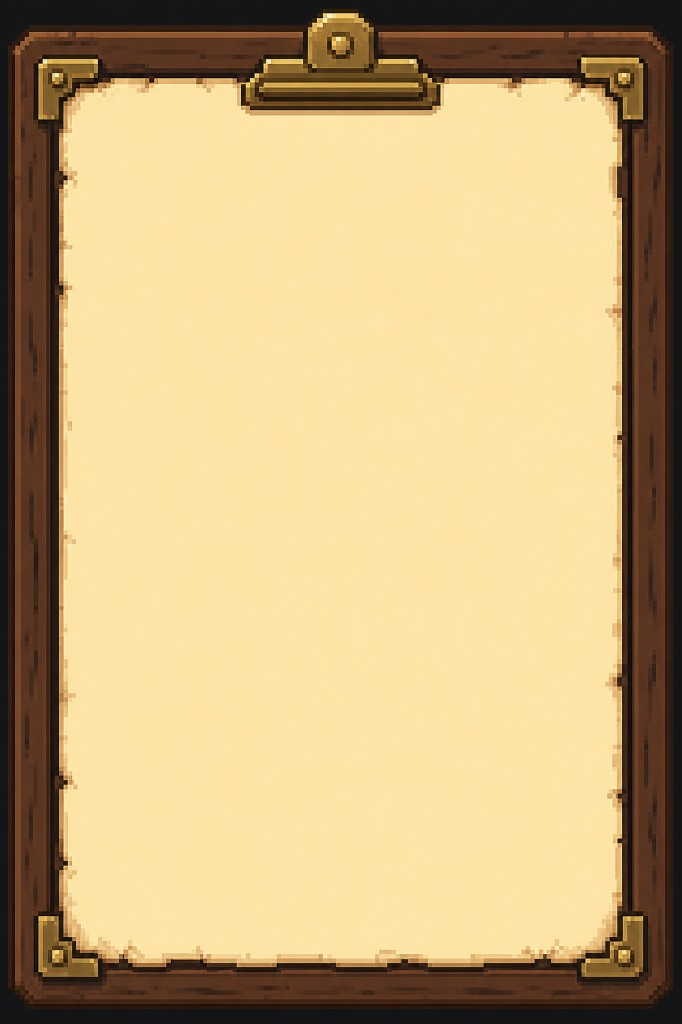
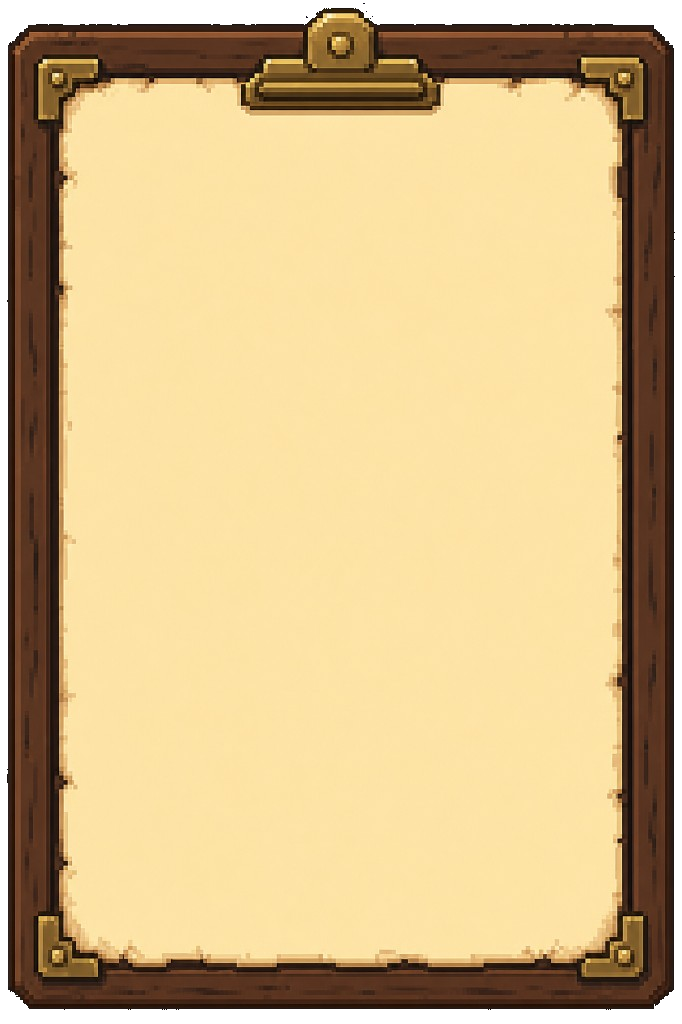
Slim Health screen and make clipboard PNG transparent.
Knock out the charcoal backdrop so the board sits cleanly on the screen, and compact the header so Body Board fits without scrolling.

Changed region(s): [[0.0, 0.0, 1.0, 1.0]]

diff --git a/artifacts/pack-it-up/src/Screens.jsx b/artifacts/pack-it-up/src/Screens.jsx
@@ -192,7 +192,7 @@ export function RewardToast({ text }) {
   );
 }
 
-function Screen({ title, icon, onBack, children, bg = "#1A1008", subtitle, progress, progressLabel, checklist }) {
+function Screen({ title, icon, onBack, children, bg = "#1A1008", subtitle, progress, progressLabel, checklist, compact = false }) {
   return (
     <div style={{
       position: "fixed", inset: 0, zIndex: 250, background: bg, display: "flex", flexDirection: "column",
@@ -201,27 +201,46 @@ function Screen({ title, icon, onBack, children, bg = "#1A1008", subtitle, progr
       {screenCss}
       <div style={{
         flex: "0 0 auto",
-        padding: "calc(env(safe-area-inset-top, 0px) + 10px) 10px 8px",
-        display: "flex", gap: 8, alignItems: "flex-start",
+        padding: compact
+          ? "calc(env(safe-area-inset-top, 0px) + 4px) 8px 4px"
+          : "calc(env(safe-area-inset-top, 0px) + 10px) 10px 8px",
+        display: "flex", gap: compact ? 6 : 8, alignItems: "center",
       }}>
-        <button onClick={onBack} style={{ padding: "9px 12px", color: "#FFD97A", fontSize: 12, cursor: "pointer", flex: "0 0 auto", ...FR, ...LB }}>
+        <button onClick={onBack} style={{
+          padding: compact ? "6px 10px" : "9px 12px",
+          color: "#FFD97A", fontSize: compact ? 11 : 12, cursor: "pointer", flex: "0 0 auto", ...FR, ...LB,
+        }}>
           ← Back
         </button>
         <div style={{ flex: 1, minWidth: 0 }}>
-          <div style={{ padding: "8px 12px", textAlign: "center", color: "#FFD97A", fontSize: 14, ...GOLD_PLATE, ...LB }}>
+          <div style={{
+            padding: compact ? "4px 8px" : "8px 12px",
+            textAlign: "center", color: "#FFD97A",
+            fontSize: compact ? 12 : 14, ...GOLD_PLATE, ...LB,
+          }}>
             {icon} {title}
+            {compact && progressLabel ? (
+              <span style={{ color: "#8A7350", fontSize: 10, marginLeft: 8 }}>{progressLabel}</span>
+            ) : null}
           </div>
           {(subtitle || progress != null) && (
-            <div style={{ marginTop: 6, padding: "6px 8px", ...FR }}>
+            <div style={{
+              marginTop: compact ? 3 : 6,
+              padding: compact ? "3px 6px" : "6px 8px",
+              ...FR,
+            }}>
               {subtitle && (
-                <div style={{ color: "#C9B896", fontSize: 10, marginBottom: progress != null ? 5 : 0, ...LB }}>
+                <div style={{
+                  color: "#C9B896", fontSize: compact ? 9 : 10,
+                  marginBottom: progress != null ? (compact ? 3 : 5) : 0, ...LB,
+                }}>
                   {subtitle}
                 </div>
               )}
               {progress != null && (
                 <>
-                  <ProgressBar value={progress} />
-                  {progressLabel && (
+                  <ProgressBar value={progress} height={compact ? 8 : 12} />
+                  {!compact && progressLabel && (
                     <div style={{ color: "#8A7350", fontSize: 9, marginTop: 3, textAlign: "right", ...LB }}>
                       {progressLabel}
                     </div>
@@ -231,11 +250,19 @@ function Screen({ title, icon, onBack, children, bg = "#1A1008", subtitle, progr
             </div>
           )}
         </div>
-        {checklist && (
+        {checklist && !compact && (
           <div style={{ flex: "0 0 auto" }}>{checklist}</div>
         )}
       </div>
-      <div style={{ flex: 1, overflowY: "auto", padding: "8px 12px calc(env(safe-area-inset-bottom, 0px) + 16px)" }}>
+      <div style={{
+        flex: 1, minHeight: 0,
+        overflowY: compact ? "hidden" : "auto",
+        padding: compact
+          ? "4px 8px calc(env(safe-area-inset-bottom, 0px) + 8px)"
+          : "8px 12px calc(env(safe-area-inset-bottom, 0px) + 16px)",
+        display: compact ? "flex" : undefined,
+        flexDirection: compact ? "column" : undefined,
+      }}>
         {children}
       </div>
     </div>
@@ -1093,23 +1120,23 @@ function HealthScreen({ go, tasks, setTasks, session, onSessionBump, rewardToast
 
   return (
     <Screen
+      compact
       title="Body Board"
       icon="🩺"
       onBack={leave}
       subtitle="Stabilize highlighted zones"
       progress={stabilized / HEALTH_ZONES.length}
       progressLabel={`${stabilized}/${HEALTH_ZONES.length}`}
-      checklist={<ChecklistCard items={prog.items} title="Care" />}
     >
       <RewardToast text={rewardToast} />
 
-      <div style={{ display: "flex", gap: 8, marginBottom: 8, overflowX: "auto" }}>
+      <div style={{ display: "flex", gap: 6, marginBottom: 4, overflowX: "auto", flex: "0 0 auto" }}>
         {booked.length === 0 && (
           <div style={{
-            flex: "0 0 auto", minWidth: 140, padding: "8px", background: "#2A1709",
-            border: "2px dashed #4A2E17", color: "#8A7350", fontSize: 10, ...LB,
+            flex: "0 0 auto", minWidth: 120, padding: "4px 8px", background: "#2A1709",
+            border: "2px dashed #4A2E17", color: "#8A7350", fontSize: 9, ...LB,
           }}>
-            No bookings yet. Call {RECEPTIONIST_NAME} from the Desk landline.
+            No bookings — call {RECEPTIONIST_NAME} from Desk
           </div>
         )}
         {booked.map((a) => {
@@ -1122,17 +1149,17 @@ function HealthScreen({ go, tasks, setTasks, session, onSessionBump, rewardToast
               onClick={() => due && finishAppt(a)}
               disabled={!due}
               style={{
-                flex: "0 0 auto", width: 110, padding: "8px", textAlign: "left",
+                flex: "0 0 auto", width: 100, padding: "4px 6px", textAlign: "left",
                 cursor: due ? "pointer" : "default",
                 background: due ? "#EFE7D2" : "#2A1709",
                 border: "2px solid #120A04", ...LB,
               }}
             >
               <div style={{ fontSize: 8, color: "#8A7350" }}>{due ? "ATTEND" : "BOOKED"}</div>
-              <div style={{ fontSize: 10, color: due ? "#3A2018" : "#C9B896", marginTop: 2 }}>
+              <div style={{ fontSize: 9, color: due ? "#3A2018" : "#C9B896", marginTop: 1 }}>
                 {visitLabel(task || a.zone)}
               </div>
-              <div style={{ fontSize: 8, color: "#5A381F", marginTop: 2 }}>
+              <div style={{ fontSize: 8, color: "#5A381F", marginTop: 1 }}>
                 {formatApptDay(a.dueAt)}{a.time ? ` · ${a.time}` : ""}
                 {!due ? " · wait" : " · today"}
               </div>
@@ -1143,12 +1170,13 @@ function HealthScreen({ go, tasks, setTasks, session, onSessionBump, rewardToast
 
       <div style={{
         position: "relative",
-        height: 380,
+        flex: 1,
+        minHeight: 0,
         overflow: "hidden",
-        backgroundColor: "#14100C",
+        backgroundColor: "transparent",
         backgroundImage: `url(${HEALTH_CLIPBOARD})`,
         backgroundRepeat: "no-repeat",
-        backgroundPosition: "center top",
+        backgroundPosition: "center center",
         backgroundSize: "contain",
         imageRendering: "pixelated",
       }}>
@@ -1168,61 +1196,67 @@ function HealthScreen({ go, tasks, setTasks, session, onSessionBump, rewardToast
             return (
               <button key={z.id} onClick={() => setZone(z.id)} style={{
                 position: "absolute", left: z.x, top: z.y, transform: "translate(-50%, -50%)",
-                width: 36, height: 36, borderRadius: "50%", cursor: "pointer",
-                background: "#221306", border: `4px solid ${ok ? "#8FD14F" : zone === z.id ? "#FFD97A" : "#C74B4F"}`,
+                width: 32, height: 32, borderRadius: "50%", cursor: "pointer",
+                background: "#221306", border: `3px solid ${ok ? "#8FD14F" : zone === z.id ? "#FFD97A" : "#C74B4F"}`,
                 animation: ok ? "zoneCalm 900ms ease-out" : "zonePulse 1.8s ease-in-out infinite",
-                color: ok ? "#8FD14F" : "#C74B4F", fontSize: 13, padding: 0, ...LB,
+                color: ok ? "#8FD14F" : "#C74B4F", fontSize: 12, padding: 0, ...LB,
               }}>{ok ? "✓" : "!"}</button>
             );
           })}
         </div>
       </div>
 
-      <div style={{ marginTop: 10, padding: "12px 14px", minHeight: 72, ...FR }}>
+      <div style={{ flex: "0 0 auto", marginTop: 4, padding: "6px 10px", ...FR }}>
         {sel ? (
-          <>
-            <div style={{ display: "flex", justifyContent: "space-between", alignItems: "baseline" }}>
-              <span style={{ color: "#F2E4C0", fontSize: 15, ...LB }}>{sel.label}</span>
-              <span style={{ color: zoneDone(sel.id) ? "#8FD14F" : "#C74B4F", fontSize: 11, ...LB }}>
-                {zoneDone(sel.id) ? "stable" : "needs attention"}
-              </span>
-            </div>
-            <div style={{ color: "#C9B896", fontSize: 12, marginTop: 6, ...LB }}>{sel.note}</div>
+          <div style={{ display: "flex", alignItems: "center", gap: 8, flexWrap: "wrap" }}>
+            <span style={{ color: "#F2E4C0", fontSize: 13, ...LB }}>{sel.label}</span>
+            <span style={{ color: zoneDone(sel.id) ? "#8FD14F" : "#C74B4F", fontSize: 10, ...LB }}>
+              {zoneDone(sel.id) ? "stable" : "needs attention"}
+            </span>
+            <span style={{ color: "#C9B896", fontSize: 10, flex: 1, minWidth: 80, ...LB }}>{sel.note}</span>
             {!zoneDone(sel.id) && (
               <button
                 onClick={() => stabilizeZone(sel.id)}
-                style={{ marginTop: 10, padding: "9px 14px", background: "#3A2410", color: "#F2E4C0", border: "3px solid #120A04", boxShadow: "inset 0 -3px 0 #1A0F06", fontSize: 12, cursor: "pointer", ...LB }}
+                style={{ padding: "6px 10px", background: "#3A2410", color: "#F2E4C0", border: "2px solid #120A04", boxShadow: "inset 0 -2px 0 #1A0F06", fontSize: 11, cursor: "pointer", ...LB }}
               >
                 Stabilize ✨
               </button>
             )}
-          </>
+          </div>
         ) : (
-          <div style={{ color: "#8A7350", fontSize: 12, ...LB }}>Tap a spot on the board. Nothing here bites.</div>
+          <div style={{ color: "#8A7350", fontSize: 11, ...LB }}>Tap a spot on the board. Nothing here bites.</div>
         )}
       </div>
 
-      <div style={{ display: "flex", gap: 6, marginTop: 10 }}>
+      <div style={{ display: "flex", gap: 4, marginTop: 4, flex: "0 0 auto" }}>
         {CARE_ITEMS.map((c) => (
           <button key={c.id} onClick={() => useCare(c.id)} style={{
-            flex: 1, padding: "10px 6px", background: "#3A2410", color: "#F2E4C0",
-            border: "3px solid #120A04", fontSize: 10, cursor: "pointer", ...LB,
+            flex: 1, padding: "6px 4px", background: "#3A2410", color: "#F2E4C0",
+            border: "2px solid #120A04", fontSize: 9, cursor: "pointer", ...LB,
           }}>
-            <div style={{ fontSize: 16 }}>{c.icon}</div>
+            <div style={{ fontSize: 14 }}>{c.icon}</div>
             {c.label}
           </button>
         ))}
       </div>
 
-      <Panel style={{ marginTop: 10 }}>
-        <div style={{ color: "#C9B896", fontSize: 10, marginBottom: 6, ...LB }}>DIAGNOSTIC NOTES</div>
+      <div style={{
+        flex: "0 0 auto", marginTop: 4, padding: "4px 8px", display: "flex",
+        gap: 10, alignItems: "center", flexWrap: "wrap", ...FR,
+      }}>
+        <span style={{ color: "#C9B896", fontSize: 9, ...LB }}>NOTES</span>
         {diag.map((d, i) => (
-          <div key={i} style={{ display: "flex", alignItems: "center", gap: 8, marginTop: 3, ...LB }}>
-            <span style={{ width: 8, height: 8, background: d.c, border: "1px solid #120A04" }} />
-            <span style={{ color: "#F2E4C0", fontSize: 11 }}>{d.t}</span>
-          </div>
+          <span key={i} style={{ display: "inline-flex", alignItems: "center", gap: 4, ...LB }}>
+            <span style={{ width: 7, height: 7, background: d.c, border: "1px solid #120A04" }} />
+            <span style={{ color: "#F2E4C0", fontSize: 10 }}>{d.t}</span>
+          </span>
         ))}
-      </Panel>
+        {prog.items?.length > 0 && (
+          <span style={{ marginLeft: "auto", color: "#8A7350", fontSize: 9, ...LB }}>
+            Care {prog.items.filter((it) => it.done).length}/{prog.items.length}
+          </span>
+        )}
+      </div>
     </Screen>
   );
 }